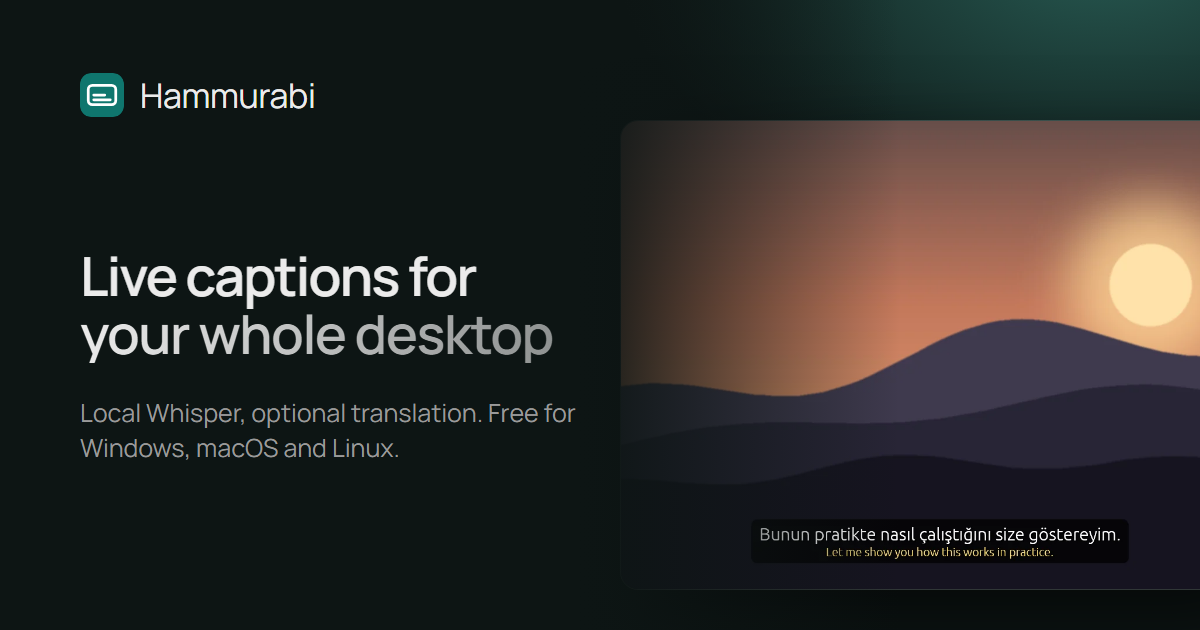
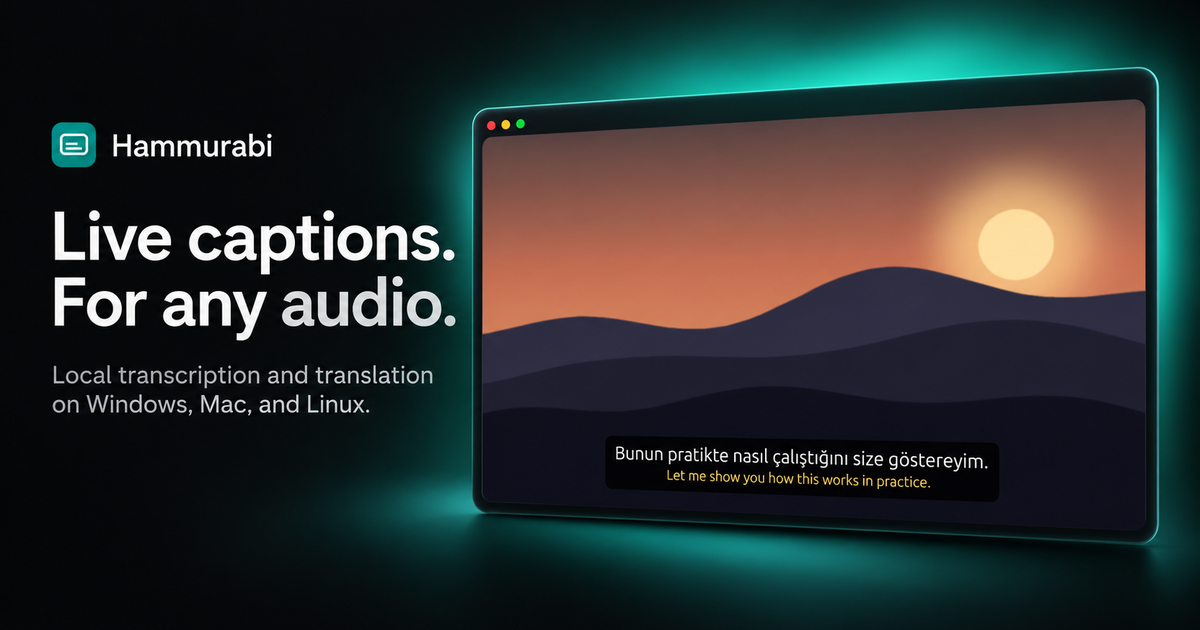
Use approved product cover for link previews

diff --git a/docs/index.html b/docs/index.html
@@ -12,12 +12,12 @@
 <meta property="og:title" content="Hammurabi | Live Desktop Captions">
 <meta property="og:description" content="Captions for any video, stream or call, and for the person talking to you. Local Whisper, optional translation, free download for Windows, macOS and Linux.">
 <meta property="og:url" content="https://hammurabi.menzo.dev/">
-<meta property="og:image" content="https://hammurabi.menzo.dev/og.png?v=2">
+<meta property="og:image" content="https://hammurabi.menzo.dev/og.png?v=20261023">
 <meta property="og:image:width" content="1200">
 <meta property="og:image:height" content="630">
-<meta property="og:image:alt" content="Hammurabi: live captions for your whole desktop">
+<meta property="og:image:alt" content="Hammurabi live caption overlay with original speech and its translation.">
 <meta name="twitter:card" content="summary_large_image">
-<meta name="twitter:image" content="https://hammurabi.menzo.dev/og.png?v=2">
+<meta name="twitter:image" content="https://hammurabi.menzo.dev/og.png?v=20261023">
 <link rel="preconnect" href="https://fonts.googleapis.com">
 <link rel="preconnect" href="https://fonts.gstatic.com" crossorigin>
 <link rel="stylesheet" href="https://fonts.googleapis.com/css2?family=Manrope:wght@400;600;700&amp;display=swap">
